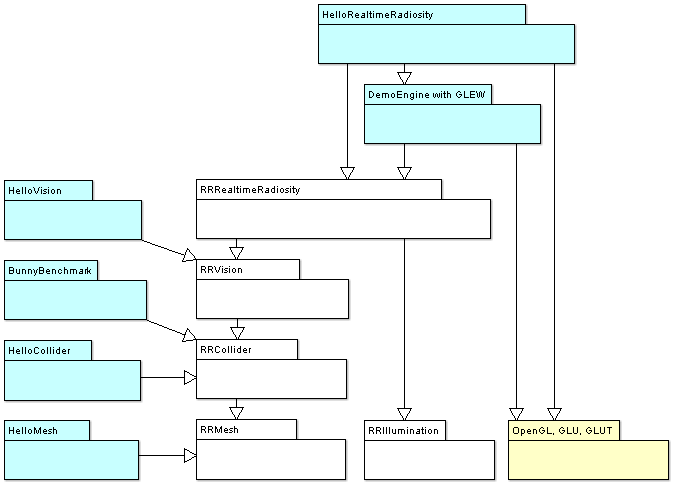
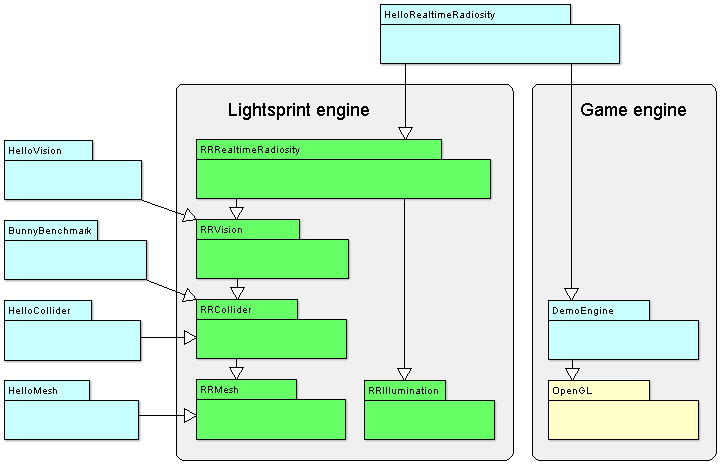
svn754
DemoEngine nezavisly na rr, zavisle veci prestehovane do hellorr
(gcc build probehne ok ale vysledek crashne. ale mozna uz to dela dlouho)

diff --git a/samples/HelloRealtimeRadiosity/3ds2rr.h b/samples/HelloRealtimeRadiosity/3ds2rr.h
@@ -1,5 +1,4 @@
 // --------------------------------------------------------------------------
-// DemoEngine
 // Imports Model_3DS into RRRealtimeRadiosity
 // Copyright (C) Stepan Hrbek, Lightsprint, 2005-2006
 // --------------------------------------------------------------------------
@@ -8,21 +7,21 @@
 #define _3DS2RR_H
 
 #include "RRRealtimeRadiosity.h"
-#include "Model_3DS.h"
+#include "DemoEngine/Model_3DS.h"
 
 // new channels supported by our RRObjects
 enum
 {
-	CHANNEL_SURFACE_DIF_TEX          = rr::RRMesh::INDEXED_BY_SURFACE+1, //! Texture*
-	CHANNEL_TRIANGLE_VERTICES_DIF_UV = rr::RRMesh::INDEXED_BY_TRIANGLE+5, //! RRVec2[3]
+	CHANNEL_SURFACE_DIF_TEX              = rr::RRMesh::INDEXED_BY_SURFACE+1,  //! Texture*
+	CHANNEL_TRIANGLE_VERTICES_DIF_UV     = rr::RRMesh::INDEXED_BY_TRIANGLE+5, //! RRVec2[3]
 	CHANNEL_TRIANGLE_OBJECT_ILLUMINATION = rr::RRMesh::INDEXED_BY_TRIANGLE+6, //! RRObjectIllumination*
 };
 
 // imports all 3d objects from model into RRRealtimeRadiosity
-void DE_API provideObjectsFrom3dsToRR(Model_3DS* model,rr::RRRealtimeRadiosity* app, const rr::RRScene::SmoothingParameters* smoothing);
+void provideObjectsFrom3dsToRR(Model_3DS* model,rr::RRRealtimeRadiosity* app, const rr::RRScene::SmoothingParameters* smoothing);
 
 // if you import 3d objects to RRRealtimeRadiosity with provideObjectsFrom3dsToRR(),
 // unimport them with deleteObjectsFromRR()
-void DE_API deleteObjectsFromRR(rr::RRRealtimeRadiosity* app);
+void deleteObjectsFromRR(rr::RRRealtimeRadiosity* app);
 
 #endif

diff --git a/samples/HelloRealtimeRadiosity/RendererOfRRObject.cpp b/samples/HelloRealtimeRadiosity/RendererOfRRObject.cpp
@@ -1,16 +1,15 @@
 // --------------------------------------------------------------------------
-// DemoEngine
-// RendererOfRRObject, Renderer implementation that renders RRObject instance.
+// Renderer implementation that renders RRObject instance.
 // Copyright (C) Stepan Hrbek, Lightsprint, 2005-2006
 // --------------------------------------------------------------------------
 
 #include <cassert>
 #include <GL/glew.h>
 #include "RRIllumination.h"
-#include "DemoEngine/3ds2rr.h" // CHANNEL_SURFACE_DIF_TEX
-#include "DemoEngine/RendererOfRRObject.h"
 #include "DemoEngine/Texture.h"
 #include "DemoEngine/UberProgramSetup.h" // texture/multitexcoord id assignments
+#include "3ds2rr.h" // CHANNEL_SURFACE_DIF_TEX
+#include "RendererOfRRObject.h"
 
 int   SIDES  =1; // 1,2=force all faces 1/2-sided, 0=let them as specified by surface
 bool  SMOOTH =1; // allow multiple normals in polygon if mgf specifies (otherwise whole polygon gets one normal)
@@ -58,7 +57,7 @@ void RendererOfRRObject::render()
 
 	bool begun = false;
 	rr::RRMesh* meshImporter = params.object->getCollider()->getMesh();
-	unsigned numTriangles = meshImporter->getNumTriangles();
+	//unsigned numTriangles = meshImporter->getNumTriangles();
 	unsigned oldSurfaceIdx = UINT_MAX;
 	rr::RRObjectIllumination* oldIllumination = NULL;
 	for(unsigned triangleIdx=params.firstCapturedTriangle;triangleIdx<=params.lastCapturedTriangle;triangleIdx++)

diff --git a/samples/HelloRealtimeRadiosity/RendererOfRRObject.h b/samples/HelloRealtimeRadiosity/RendererOfRRObject.h
@@ -1,6 +1,5 @@
 // --------------------------------------------------------------------------
-// DemoEngine
-// RendererOfRRObject, Renderer implementation that renders RRObject instance.
+// Renderer implementation that renders RRObject instance.
 // Copyright (C) Stepan Hrbek, Lightsprint, 2005-2006
 // --------------------------------------------------------------------------
 
@@ -9,15 +8,27 @@
 
 #include <cstring> // memset
 #include "RRVision.h"
-#include "Renderer.h"
-#include "VertexDataGenerator.h"
+#include "DemoEngine/Renderer.h"
+
+
+//////////////////////////////////////////////////////////////////////////////
+//
+// per vertex data generator
+
+class VertexDataGenerator
+{
+public:
+	virtual ~VertexDataGenerator() {};
+	virtual void generateData(unsigned triangleIndex, unsigned vertexIndex, void* vertexData, unsigned size) = 0; // vertexIndex=0..2
+	virtual unsigned getHash() = 0;
+};
 
 
 //////////////////////////////////////////////////////////////////////////////
 //
 // RendererOfRRObject - basic OpenGL renderer implementation
 
-class DE_API RendererOfRRObject : public Renderer
+class RendererOfRRObject : public Renderer
 {
 public:
 	RendererOfRRObject(const rr::RRObject* objectImporter, const rr::RRScene* radiositySolver, const rr::RRScaler* scaler);

diff --git a/samples/HelloRealtimeRadiosity/RRIlluminationEnvironmentMapInOpenGL.cpp b/samples/HelloRealtimeRadiosity/RRIlluminationEnvironmentMapInOpenGL.cpp
@@ -1,12 +1,11 @@
 // --------------------------------------------------------------------------
-// DemoEngine
-// Implementation of RRIlluminationEnvironmentMapInOpenGL
+// OpenGL implementation of environment map interface rr::RRIlluminationEnvironmentMap.
 // Copyright (C) Stepan Hrbek, Lightsprint, 2006
 // --------------------------------------------------------------------------
 
-#include "DemoEngine/RRIlluminationEnvironmentMapInOpenGL.h"
-#include "DemoEngine/Program.h"
 #include <windows.h>
+#include "DemoEngine/Program.h"
+#include "RRIlluminationEnvironmentMapInOpenGL.h"
 
 namespace rr
 {
@@ -15,6 +14,10 @@ namespace rr
 //
 // RRIlluminationEnvironmentMapInOpenGL
 
+// Many Lightsprint functions are parallelized internally,
+// but demos are singlethreaded for simplicity, so this code 
+// is never run in multiple threads and critical section is not needed.
+// But it could get handy later.
 CRITICAL_SECTION criticalSection; // global critical section for all instances, never calls GL from 2 threads at once
 unsigned numInstances = 0;
 

diff --git a/src/FCSS/shadowcast.cpp b/src/FCSS/shadowcast.cpp
@@ -93,18 +93,18 @@ scita se primary a zkorigovany indirect, vysledkem je ze primo osvicena mista js
 #include <GL/glut.h>
 #include "RRRealtimeRadiosity.h"
 #include "DemoEngine/Camera.h"
-#include "DemoEngine/DynamicObject.h"
 #include "DemoEngine/Texture.h"
 #include "DemoEngine/UberProgram.h"
 #include "DemoEngine/MultiLight.h"
 #include "DemoEngine/Model_3DS.h"
-#include "DemoEngine/3ds2rr.h"
 #include "DemoEngine/RendererWithCache.h"
 #include "DemoEngine/RendererOf3DS.h"
-#include "DemoEngine/RendererOfRRObject.h"
 #include "DemoEngine/UberProgramSetup.h"
-#include "DemoEngine/RRIlluminationPixelBufferInOpenGL.h"
-#include "DemoEngine/RRIlluminationEnvironmentMapInOpenGL.h"
+#include "3ds2rr.h"
+#include "DynamicObject.h"
+#include "RendererOfRRObject.h"
+#include "RRIlluminationPixelBufferInOpenGL.h"
+#include "RRIlluminationEnvironmentMapInOpenGL.h"
 #include "Bugs.h"
 #include "LevelSequence.h"
 

diff --git a/samples/HelloRealtimeRadiosity/DynamicObject.cpp b/samples/HelloRealtimeRadiosity/DynamicObject.cpp
@@ -1,12 +1,11 @@
 // --------------------------------------------------------------------------
-// DemoEngine
 // DynamicObject, 3d object with dynamic global illumination.
 // Copyright (C) Stepan Hrbek, Lightsprint, 2005-2006
 // --------------------------------------------------------------------------
 
-#include "DemoEngine/DynamicObject.h"
 #include "DemoEngine/RendererOf3DS.h"
 #include "DemoEngine/RendererWithCache.h"
+#include "DynamicObject.h"
 
 
 //////////////////////////////////////////////////////////////////////////////
@@ -24,7 +23,7 @@ DynamicObject* DynamicObject::create(const char* filename,float scale,UberProgra
 		d->specularCubeSize = aspecularCubeSize;
 		return d;
 	}
-	if(!d->getModel().numObjects) printf("Model %s contains no objects.",filename);
+	if(!d->getModel().numObjects) printf("Model %s contains no objects.\n",filename);
 	delete d;
 	return NULL;
 }

diff --git a/samples/HelloRealtimeRadiosity/DynamicObject.h b/samples/HelloRealtimeRadiosity/DynamicObject.h
@@ -1,5 +1,4 @@
 // --------------------------------------------------------------------------
-// DemoEngine
 // DynamicObject, 3d object with dynamic global illumination.
 // Copyright (C) Stepan Hrbek, Lightsprint, 2005-2006
 // --------------------------------------------------------------------------
@@ -8,9 +7,9 @@
 #define DYNAMICOBJECT_H
 
 #include "RRRealtimeRadiosity.h"
-#include "Model_3DS.h"
-#include "UberProgramSetup.h"
-#include "Renderer.h"
+#include "DemoEngine/Model_3DS.h"
+#include "DemoEngine/UberProgramSetup.h"
+#include "DemoEngine/Renderer.h"
 #include "RRIlluminationEnvironmentMapInOpenGL.h"
 
 
@@ -18,7 +17,7 @@
 //
 // Dynamic object
 
-class DE_API DynamicObject
+class DynamicObject
 {
 public:
 	static DynamicObject* create(const char* filename,float scale,UberProgramSetup amaterial,unsigned aspecularCubeSize);

diff --git a/samples/HelloRealtimeRadiosity/RRIlluminationPixelBufferInOpenGL.h b/samples/HelloRealtimeRadiosity/RRIlluminationPixelBufferInOpenGL.h
@@ -1,5 +1,4 @@
 // --------------------------------------------------------------------------
-// DemoEngine
 // OpenGL implementation of ambient map interface rr::RRIlluminationPixelBuffer.
 // Copyright (C) Stepan Hrbek, Lightsprint, 2005-2006
 // --------------------------------------------------------------------------
@@ -25,7 +24,7 @@ namespace rr
 	//
 	//////////////////////////////////////////////////////////////////////////////
 
-	class DE_API RRIlluminationPixelBufferInOpenGL : public RRIlluminationPixelBuffer
+	class RRIlluminationPixelBufferInOpenGL : public RRIlluminationPixelBuffer
 	{
 	public:
 		RRIlluminationPixelBufferInOpenGL(unsigned awidth, unsigned aheight, const char* pathToShaders);

diff --git a/samples/HelloRealtimeRadiosity/RRIlluminationEnvironmentMapInOpenGL.h b/samples/HelloRealtimeRadiosity/RRIlluminationEnvironmentMapInOpenGL.h
@@ -1,5 +1,4 @@
 // --------------------------------------------------------------------------
-// DemoEngine
 // OpenGL implementation of environment map interface rr::RRIlluminationEnvironmentMap.
 // Copyright (C) Stepan Hrbek, Lightsprint, 2006
 // --------------------------------------------------------------------------
@@ -26,7 +25,7 @@ namespace rr
 	//
 	//////////////////////////////////////////////////////////////////////////////
 
-	class DE_API RRIlluminationEnvironmentMapInOpenGL : public RRIlluminationEnvironmentMap
+	class RRIlluminationEnvironmentMapInOpenGL : public RRIlluminationEnvironmentMap
 	{
 	public:
 		RRIlluminationEnvironmentMapInOpenGL();

diff --git a/samples/HelloRealtimeRadiosity/HelloRealtimeRadiosity.cpp b/samples/HelloRealtimeRadiosity/HelloRealtimeRadiosity.cpp
@@ -20,12 +20,12 @@
 #include <GL/glew.h>
 #include <GL/glut.h>
 #include "RRRealtimeRadiosity.h"
-#include "DemoEngine/DynamicObject.h"
-#include "DemoEngine/3ds2rr.h"
 #include "DemoEngine/RendererWithCache.h"
-#include "DemoEngine/RendererOfRRObject.h"
-#include "DemoEngine/RRIlluminationPixelBufferInOpenGL.h"
 #include "DemoEngine/Timer.h"
+#include "3ds2rr.h"
+#include "DynamicObject.h"
+#include "RendererOfRRObject.h"
+#include "RRIlluminationPixelBufferInOpenGL.h"
 
 //#define AMBIENT_MAPS
 // Makes indirect illumination stored into and rendered from ambient maps (instead of vertex buffers).

diff --git a/samples/HelloRealtimeRadiosity/3ds2rr.cpp b/samples/HelloRealtimeRadiosity/3ds2rr.cpp
@@ -1,5 +1,4 @@
 // --------------------------------------------------------------------------
-// DemoEngine
 // Imports Model_3DS into RRRealtimeRadiosity
 // Copyright (C) Stepan Hrbek, Lightsprint, 2005-2006
 // --------------------------------------------------------------------------
@@ -31,7 +30,7 @@
 #include <cmath>
 #include <vector>
 #include "RRIllumination.h"
-#include "DemoEngine/3ds2rr.h"
+#include "3ds2rr.h"
 
 
 //////////////////////////////////////////////////////////////////////////////

diff --git a/samples/HelloRealtimeRadiosity/RRIlluminationPixelBufferInOpenGL.cpp b/samples/HelloRealtimeRadiosity/RRIlluminationPixelBufferInOpenGL.cpp
@@ -1,11 +1,10 @@
 // --------------------------------------------------------------------------
-// DemoEngine
 // OpenGL implementation of ambient map interface rr::RRIlluminationPixelBuffer.
 // Copyright (C) Stepan Hrbek, Lightsprint, 2005-2006
 // --------------------------------------------------------------------------
 
 #include <cstdio>
-#include "DemoEngine/RRIlluminationPixelBufferInOpenGL.h"
+#include "RRIlluminationPixelBufferInOpenGL.h"
 #include "DemoEngine/Program.h"
 
 namespace rr
